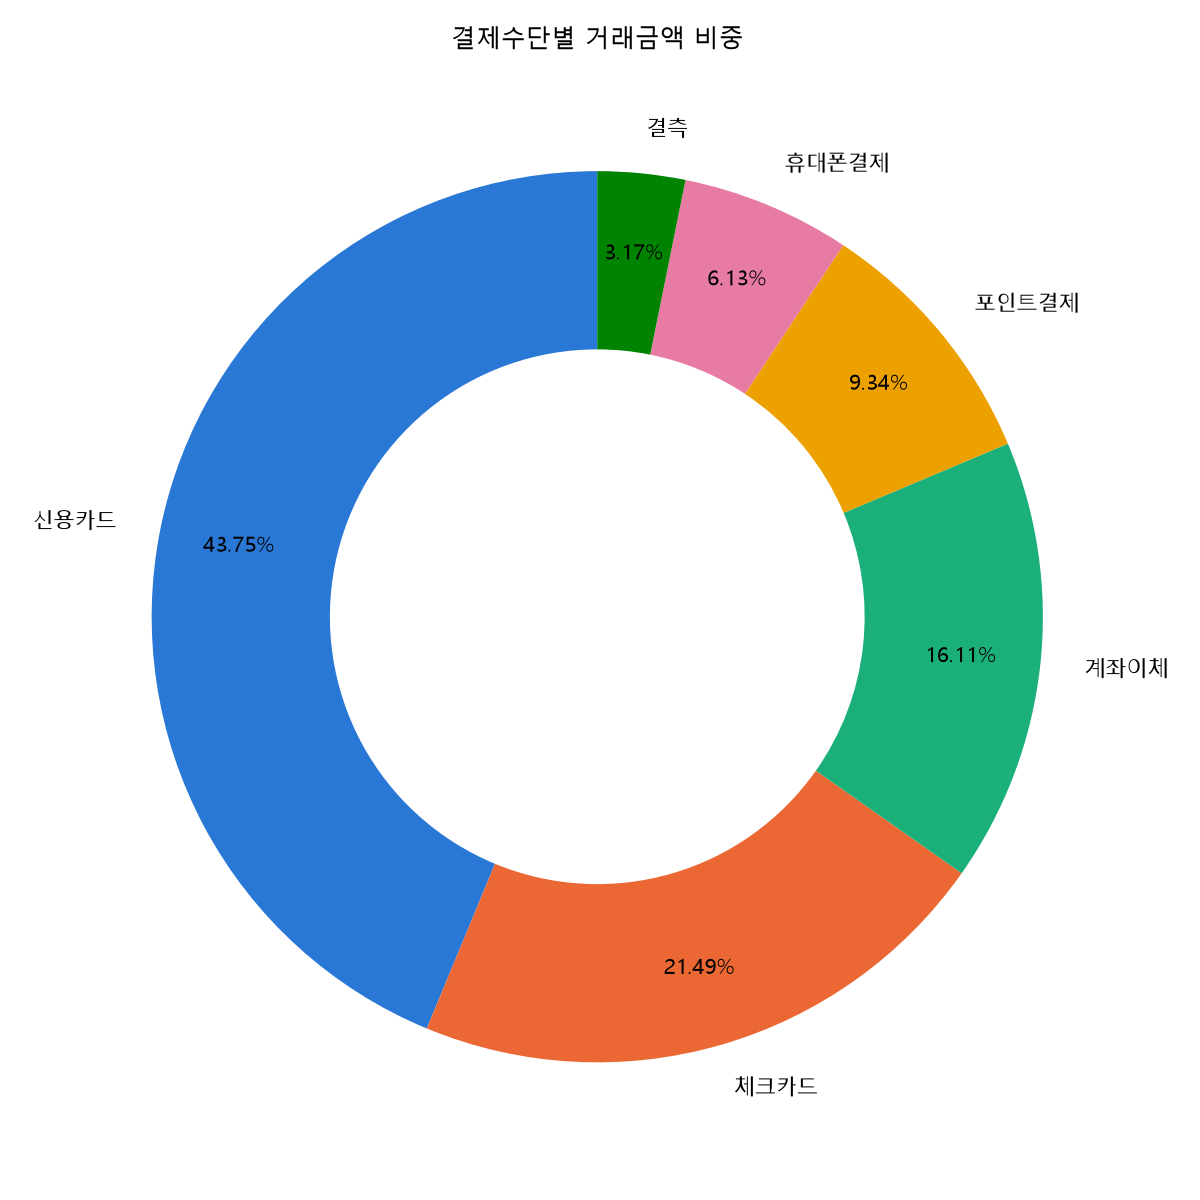
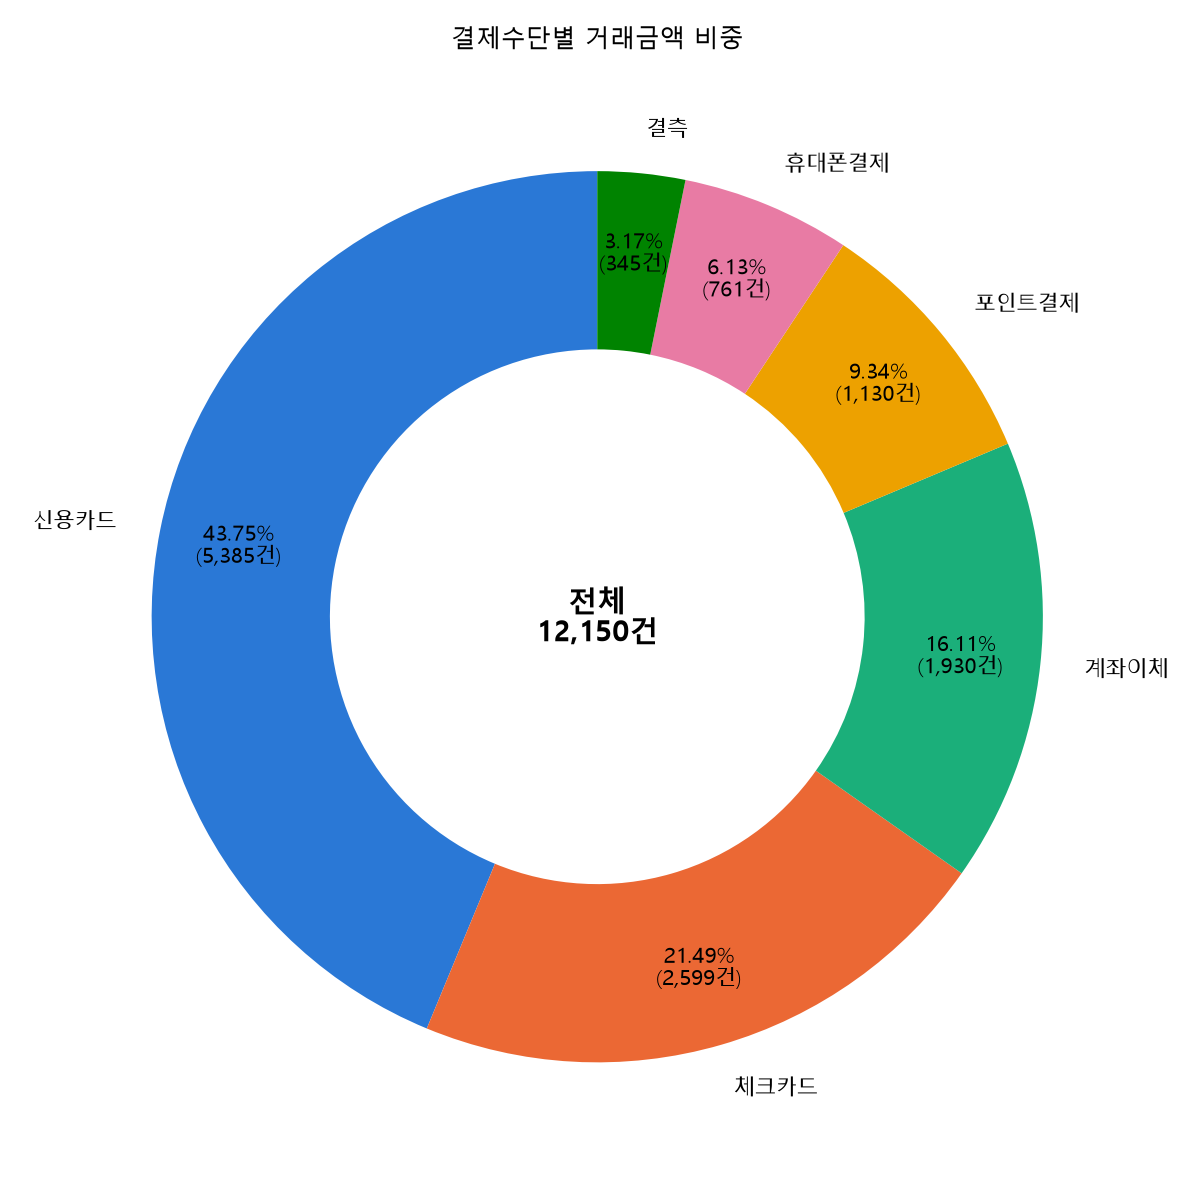
도넛차트에 건수·전체 건수 표시 추가, 보고서에 반영

diff --git a/scripts/결제수단_도넛차트.py b/scripts/결제수단_도넛차트.py
@@ -17,19 +17,36 @@ df["결제수단_정리"] = df["결제수단"].str.strip().fillna("결측")
 by_method = df.groupby("결제수단_정리")["거래금액"].sum().sort_values(ascending=False)
 total = by_method.sum()
 
+# 건수(거래 몇 건인지)는 금액과 별개로 집계해야 함 — sum()은 금액을 더한 값이라 건수와 다르다
+count_by_method = df.groupby("결제수단_정리").size().reindex(by_method.index)
+total_count = int(count_by_method.sum())
+
 print("결제수단별 거래금액 비중:")
 for name, value in by_method.items():
-    print(f"{name}: {value:,.0f}원 ({value/total*100:.2f}%)")
+    print(f"{name}: {value:,.0f}원 ({value/total*100:.2f}%), {count_by_method[name]:,}건")
 
 # 서로 다른 결제수단(정체성 구분)이라 카테고리 색을 고정 순서로 지정.
 # dataviz 스킬의 검증된 팔레트(validate_palette.js 로 색약 구분·명도 통과 확인된 순서)를 그대로 사용
 colors = ["#2a78d6", "#eb6834", "#1baf7a", "#eda100", "#e87ba4", "#008300"]
 
+# autopct 는 비율(%)만 넘겨주므로, 조각이 그려지는 순서(counts 리스트 순서)를 따라가며
+# 건수를 하나씩 꺼내 같은 라벨에 같이 적어준다
+counts_in_order = count_by_method.tolist()
+wedge_position = {"i": 0}
+
+
+def label_with_count(pct):
+    i = wedge_position["i"]
+    wedge_position["i"] += 1
+    count = counts_in_order[i]
+    return f"{pct:.2f}%\n({count:,}건)"
+
+
 fig, ax = plt.subplots(figsize=(8, 8))
 wedges, _, autotexts = ax.pie(
     by_method.values,
     labels=by_method.index,
-    autopct="%.2f%%",   # 비율을 소수점 둘째 자리까지 표시
+    autopct=label_with_count,   # 비율과 건수를 함께 표시
     startangle=90,
     colors=colors[: len(by_method)],
     wedgeprops={"width": 0.4},  # width<1 로 가운데를 뚫어 도넛 모양을 만듦
@@ -37,6 +54,9 @@ wedges, _, autotexts = ax.pie(
 )
 ax.set_title("결제수단별 거래금액 비중")
 ax.set_aspect("equal")
+
+# 도넛 가운데 뚫린 공간에 전체 건수를 적어 전체 규모를 바로 보여줌
+ax.text(0, 0, f"전체\n{total_count:,}건", ha="center", va="center", fontsize=14, fontweight="bold")
 
 plt.tight_layout()
 

diff --git a/output/그래프_분석_보고서.md b/output/그래프_분석_보고서.md
@@ -61,14 +61,17 @@
 
 ![결제수단별 거래금액 도넛차트](charts/결제수단별_거래금액_도넛차트.png)
 
-| 결제수단 | 합계(원) | 비중 |
-|---|---|---|
-| 신용카드 | 254,500,813 | 43.75% |
-| 체크카드 | 124,975,625 | 21.49% |
-| 계좌이체 | 93,718,496 | 16.11% |
-| 포인트결제 | 54,344,379 | 9.34% |
-| 휴대폰결제 | 35,685,922 | 6.13% |
-| 결측 | 18,455,917 | 3.17% |
+| 결제수단 | 합계(원) | 비중 | 건수 |
+|---|---|---|---|
+| 신용카드 | 254,500,813 | 43.75% | 5,385 |
+| 체크카드 | 124,975,625 | 21.49% | 2,599 |
+| 계좌이체 | 93,718,496 | 16.11% | 1,930 |
+| 포인트결제 | 54,344,379 | 9.34% | 1,130 |
+| 휴대폰결제 | 35,685,922 | 6.13% | 761 |
+| 결측 | 18,455,917 | 3.17% | 345 |
+| **전체** | **581,681,927** | **100%** | **12,150** |
+
+도넛 조각마다 비율과 건수를 함께 표시했고, 가운데에는 전체 건수(12,150건)를 넣었다.
 
 **시사점**: 건수 비중(44.32%)과 금액 비중(43.75%)이 거의 같다 — 신용카드는 건당 평균 금액도 다른 수단과 비슷한 수준이라는 뜻이다. 결측(공백 결측 요태 등) 거래도 1,845만원 규모라 무시할 수 없는 금액이므로, 결측 처리 방식이 총액 집계에 영향을 준다.
 
